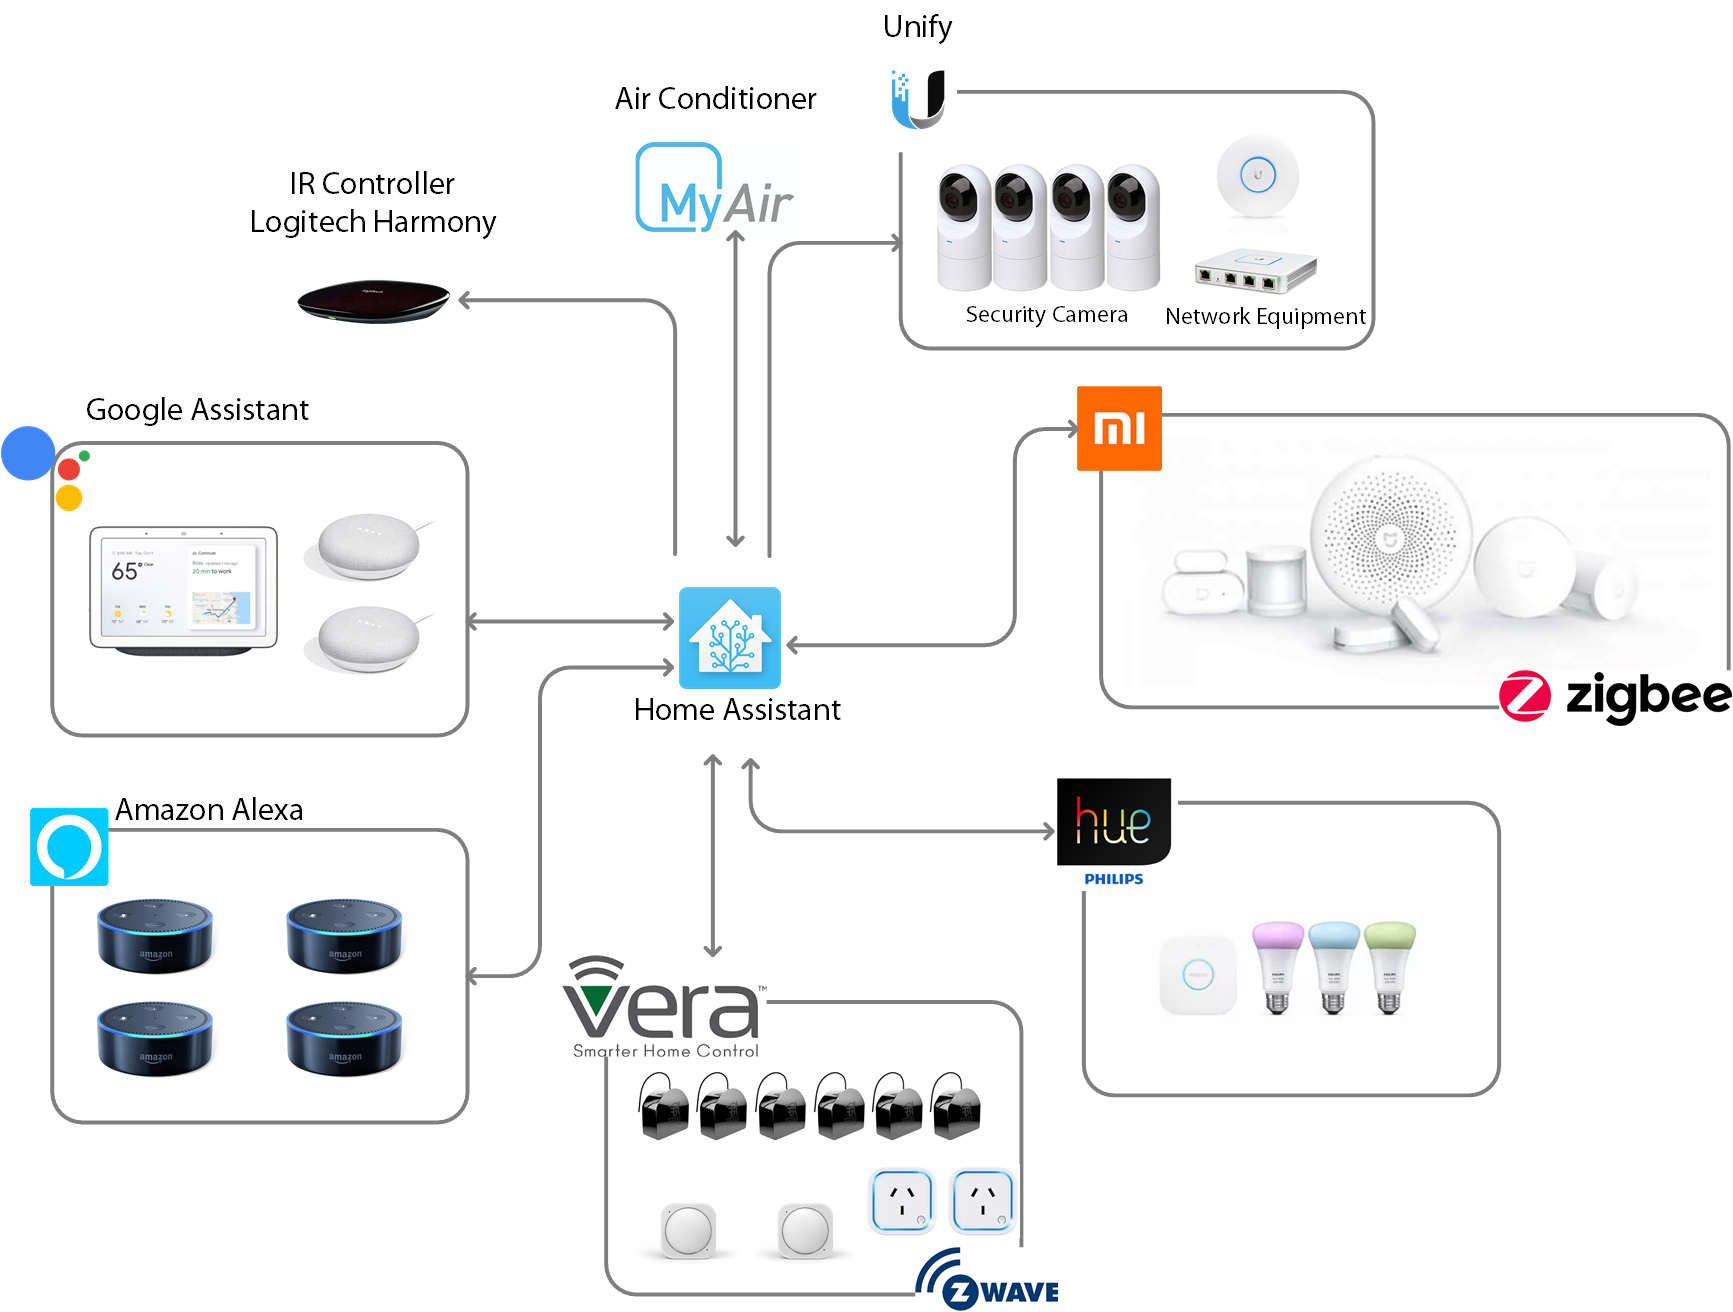
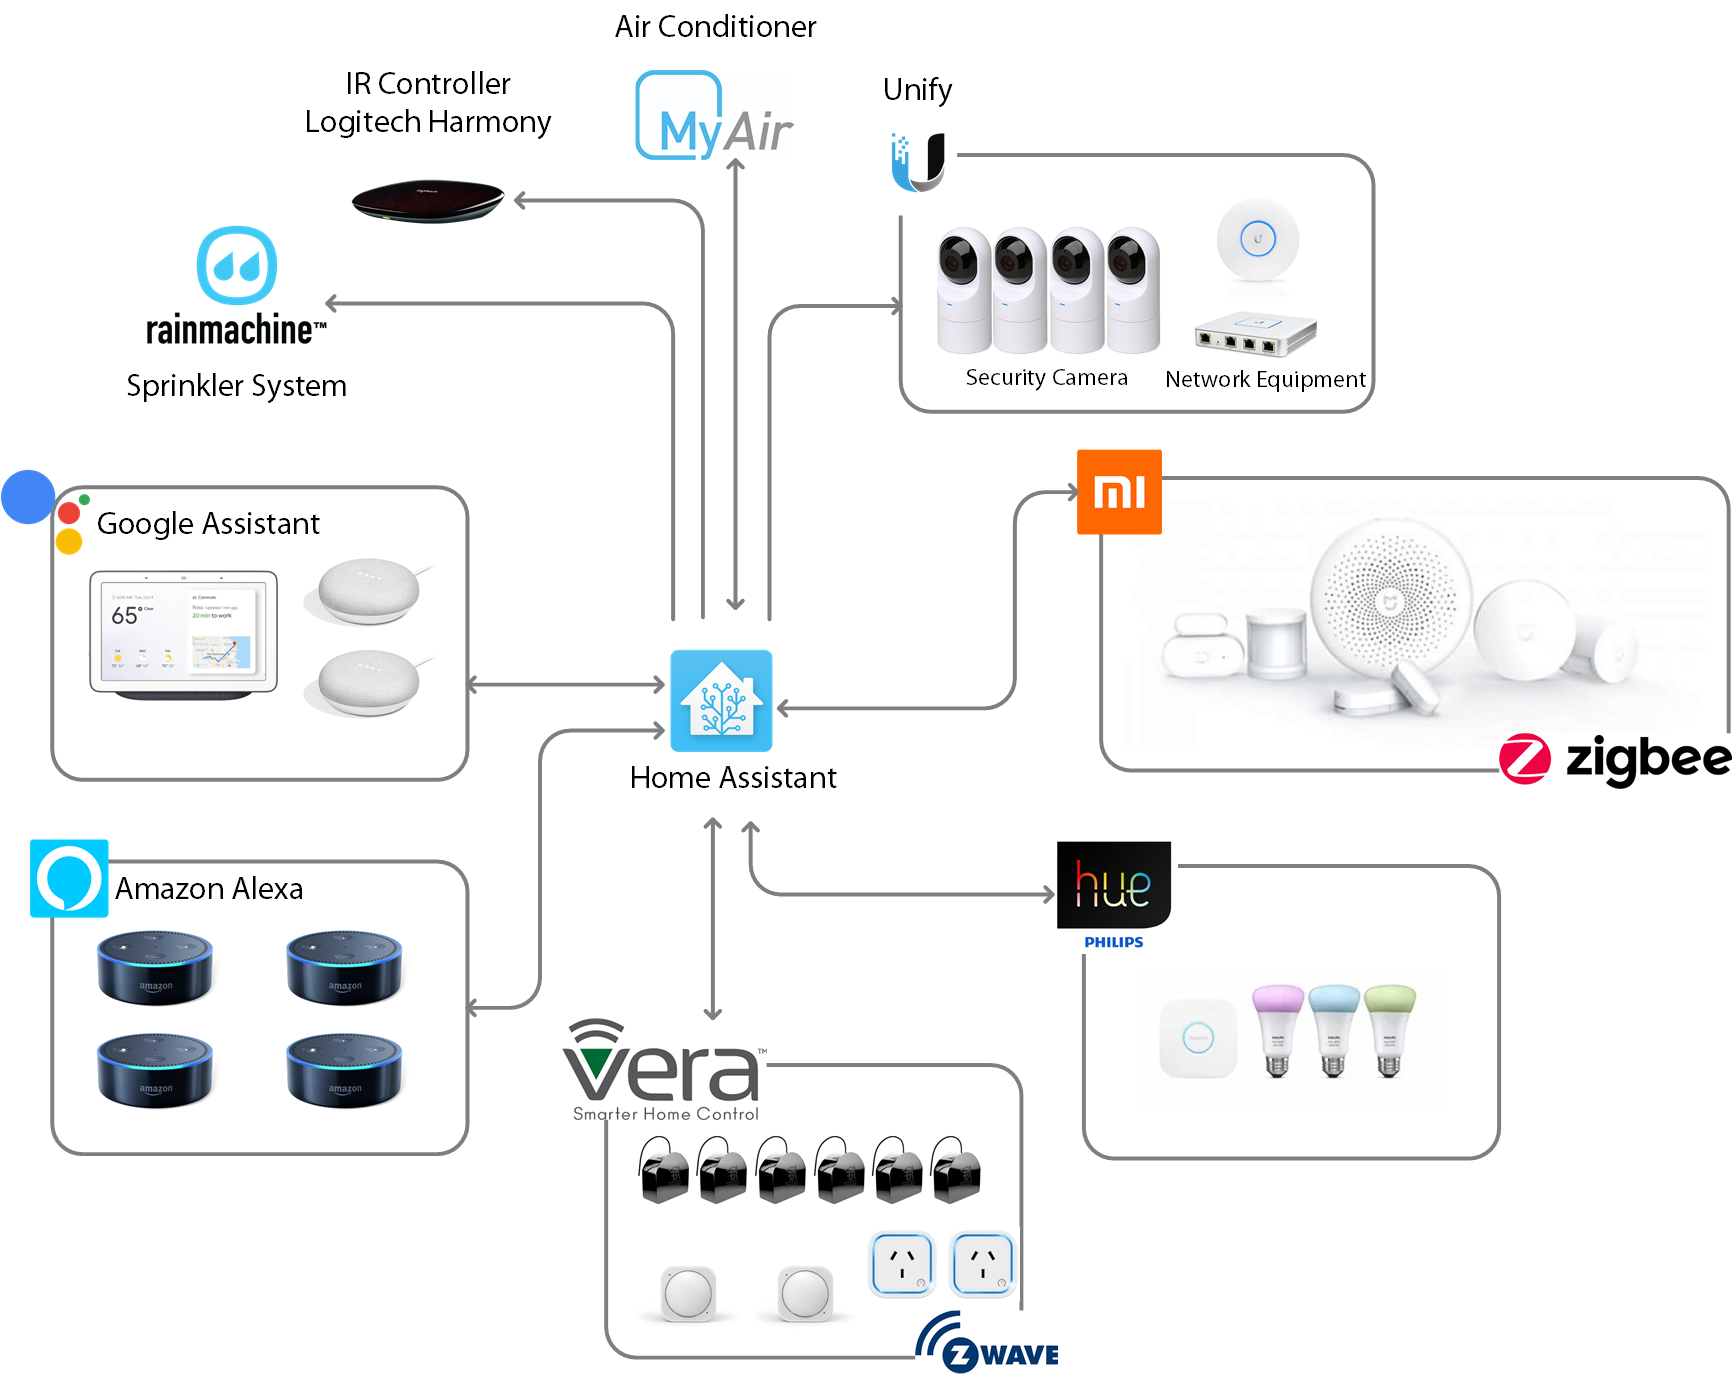
doco updated with rainmachine integration

diff --git a/README.md b/README.md
@@ -33,6 +33,7 @@ This provides the yaml configuration used at SnM Nest Home Assistant. If you are
 - Ring Doorbell
 - Sonos Connect Amp
 - Sonos Play:3
+- RainMachine Pro-8 for Sprinkler Control
 
 # CI/CD - DevOps
 
@@ -96,7 +97,7 @@ Following are some of the automation that I'm using at my smart home.
 - Toggle Alfresco Sonos Music Play with Alfresco Xiaomi push button
 - Jump to Next track in Alfresco Music Play when Alfresco Xiaomi push button double press is detected
 - Turn on Alfresco Music Play with Alfresco Motion
-- Turn off Alfresco Music Play with Alfresco No Motion after 5 mins
+- Turn off Alfresco Music Play with Alfresco No Motion for 5 mins
 
 ## Office Automations
 - Turn on the Office light then there is motion
